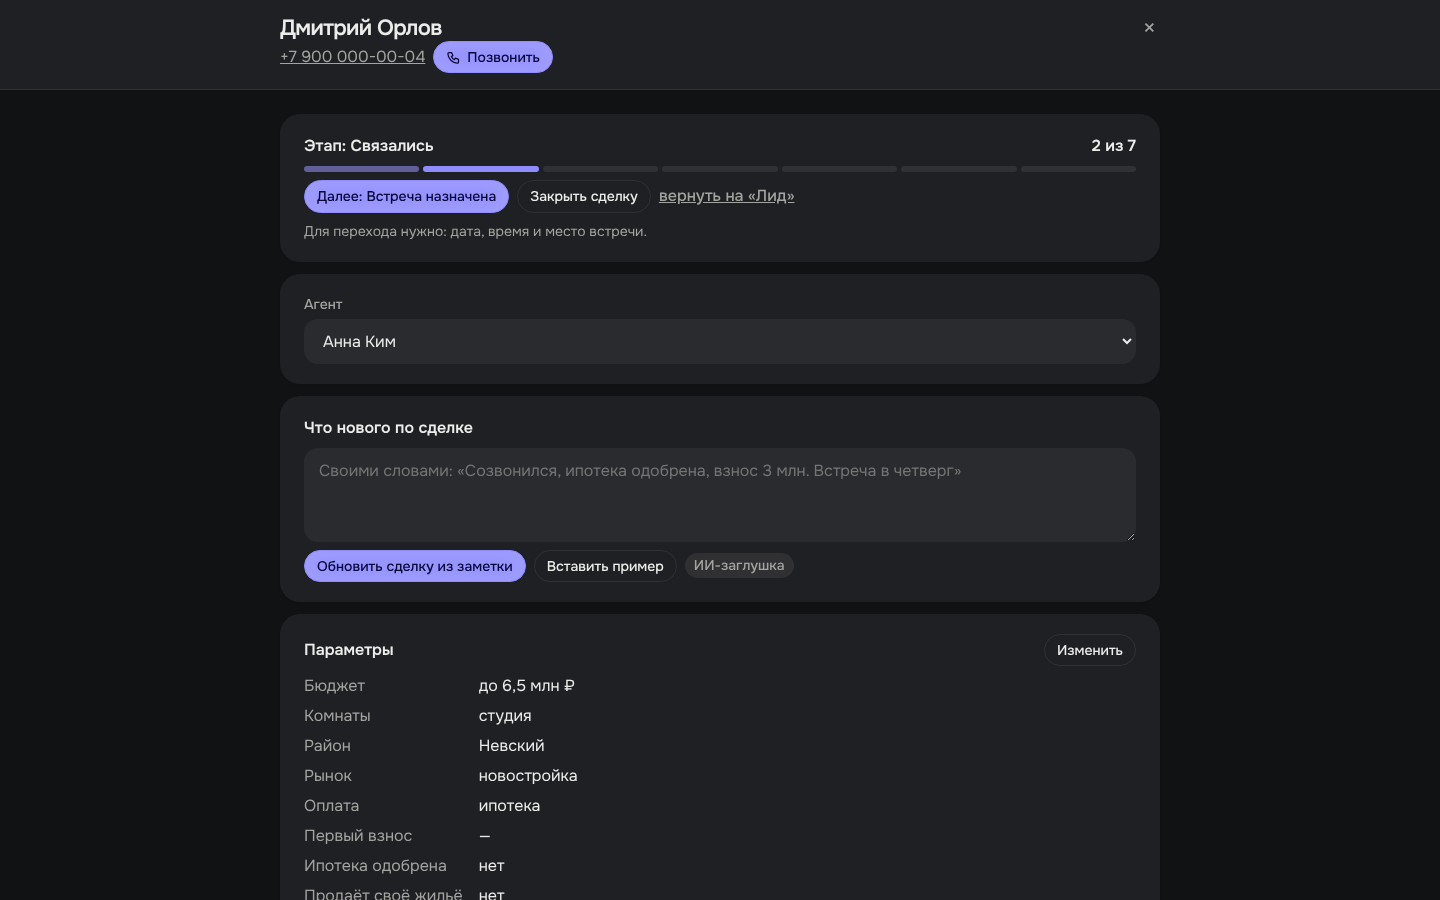
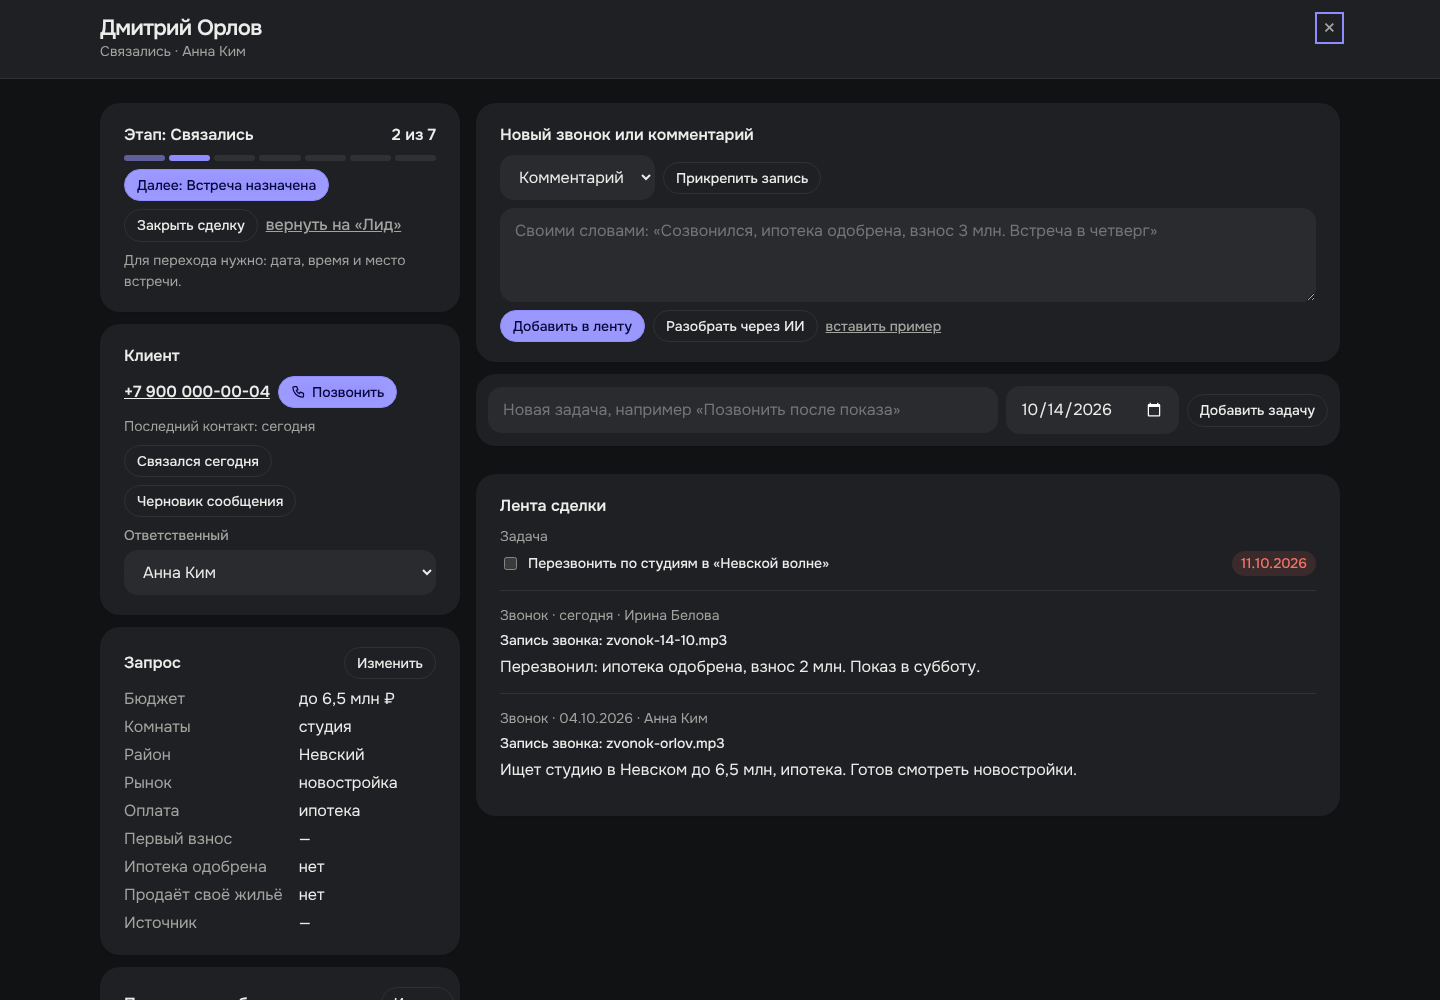
Сделка в две колонки: слева этап, клиент и запрос, справа лента звонков, комментариев и задач
Claude-Session: https://claude.ai/code/session_01Vzet5CnL4PoNdbncT2XCpf

diff --git a/app/index.html b/app/index.html
@@ -278,11 +278,27 @@ textarea { resize: vertical; }
 .pin.new span { background: var(--accent); color: var(--accent-ink); border-color: var(--accent); }
 .pin.off span { opacity: .55; }
 dialog.drawer.wide { width: min(660px, 100%); }
+/* Страница сделки: слева кто, где и что хочет клиент; справа лента звонков, комментариев и задач */
+.deal-grid { display: grid; grid-template-columns: minmax(0, 360px) minmax(0, 1fr); gap: 16px; align-items: start; }
+.deal-side, .deal-main { display: grid; grid-template-columns: minmax(0, 1fr); gap: 12px; min-width: 0; }
+.deal-side { position: sticky; top: 96px; }
+.deal-grid .block { box-sizing: border-box; background: var(--surface); border-radius: 20px; padding: 20px 24px; box-shadow: 0 1px 2px rgb(16 24 40 / .05); }
+.deal-grid dl { gap: 4px 16px; }
+.feed { display: grid; }
+.ev { display: grid; gap: 4px; padding: 14px 0; border-top: 1px solid var(--line); }
+.ev:first-child { border-top: 0; padding-top: 0; }
+.ev p { margin: 0; white-space: pre-line; }
+.ev-meta { font-size: var(--fs-sm); color: var(--muted); }
+.ev-file { font-size: var(--fs-sm); font-weight: 500; }
+.ev.task { grid-template-columns: minmax(0, 1fr) auto; align-items: center; }
+.ev.task .ev-meta { grid-column: 1 / -1; }
+.ev.done label { color: var(--muted); text-decoration: line-through; }
+#add-task { box-sizing: border-box; background: var(--surface); border-radius: 20px; padding: 12px; box-shadow: 0 1px 2px rgb(16 24 40 / .05); }
+@media (max-width: 900px) { .deal-grid { grid-template-columns: minmax(0, 1fr); } .deal-side { position: static; } }
 /* Сделка — отдельная страница на весь экран: фон страницы, разделы на плашках */
 dialog.drawer.page { width: 100%; border: 0; background: var(--bg); }
-.page .dlg { --pad: max(20px, calc((100vw - 880px) / 2)); padding: 20px var(--pad) 48px; gap: 12px; }
+.page .dlg { --pad: max(20px, calc((100vw - 1240px) / 2)); padding: 20px var(--pad) 48px; gap: 12px; }
 .page .dlg-head { margin: -20px calc(-1 * var(--pad)) 12px; padding: 16px var(--pad); }
-.page .dlg > :not(.dlg-head):not(.info) { background: var(--surface); border-radius: 20px; padding: 20px 24px; box-shadow: 0 1px 2px rgb(16 24 40 / .05); }
 .chess { display: grid; gap: 4px; overflow-x: auto; }
 .chess .fl { font-size: var(--fs-xs); color: var(--muted); display: grid; place-items: center; font-variant-numeric: tabular-nums; }
 .unit { font: 600 var(--fs-xs)/1.25 var(--f-body); padding: 5px 2px; border-radius: 6px; border: 2px solid transparent; cursor: pointer; text-align: center; font-variant-numeric: tabular-nums; color: var(--ink); }
@@ -1217,53 +1233,57 @@ function busy(btn, label, fn) {
 
 function renderDeal() {
   const d = deal(ui.dealId), c = can(), n = -days(d.lastContact), m = matches(d);
-  const keepNote = $('note')?.value ?? '';
-  const ts = S.tasks.filter(t => t.dealId === d.id && !t.done).sort((a, b) => a.due.localeCompare(b.due));
+  const keepNote = $('note')?.value ?? '', keepKind = $('note-kind')?.value || 'comment';
   const bs = S.bookings.filter(b => b.dealId === d.id), ks = S.commissions.filter(k => k.dealId === d.id);
   const p = ui.preview, any = p && (p.changes.length || p.task || p.stage);
+  // Лента: сверху открытые задачи по сроку (просроченные первыми), ниже звонки, комментарии и выполненные задачи, новое сверху
+  const feed = [
+    ...d.notes.map((x, i) => ({ date: x.date, i, html: `<div class="ev"><span class="ev-meta">${x.kind ? NOTE_KIND[x.kind] : 'Комментарий'} · ${dueLabel(x.date)} · ${esc(user(x.author)?.name)}</span>${x.file ? `<span class="ev-file">Запись звонка: ${esc(x.file)}</span>` : ''}<p>${esc(x.text)}</p></div>` })),
+    ...S.tasks.filter(t => t.dealId === d.id).map((t, i) => ({ date: t.due, open: !t.done, i: -1 - i, html: `<div class="ev task${t.done ? ' done' : ''}"><span class="ev-meta">${t.done ? 'Задача · выполнена' : 'Задача'}</span>
+      <label class="check"><input type="checkbox" ${t.done ? 'checked disabled' : `data-act="done" data-id="${t.id}"`}> ${esc(t.title)}</label>${t.done ? '' : pill(dueCls(t.due), dueLabel(t.due))}</div>` })),
+  ].sort((a, b) => !!b.open - !!a.open || (a.open ? a.date.localeCompare(b.date) : b.date.localeCompare(a.date) || b.i - a.i));
   $('drawer').innerHTML = `<div class="dlg">
-    <div class="dlg-head"><div><h2>${esc(d.name)}</h2><div class="actions">${d.phone ? `<a class="muted" href="${telHref(d.phone)}">${esc(d.phone)}</a>` : '<span class="muted">телефон не указан</span>'}${callBtn(d.phone)}</div></div><button class="x" data-act="close" aria-label="Закрыть">×</button></div>
+    <div class="dlg-head"><div><h2>${esc(d.name)}</h2><span class="muted small">${esc(stage(d.stageId)?.name)}${d.lost ? ' · отказ' : ''} · ${esc(user(d.agentId)?.name)}</span></div><button class="x" data-act="close" aria-label="Закрыть">×</button></div>
     ${ui.flash ? `<p class="info">${esc(ui.flash)}</p>` : ''}
-    ${stageBlock(d)}
-    <div class="fields">
-      <div class="field"><label for="deal-agent">Агент</label>${c.all ? `<select id="deal-agent">${S.users.map(u => `<option value="${u.id}"${u.id === d.agentId ? ' selected' : ''}>${esc(u.name)}</option>`).join('')}</select>` : `<span id="deal-agent" style="padding-block:8px">${esc(user(d.agentId)?.name)}</span>`}</div>
-    </div>
-
-    <div class="block"><h3>Что нового по сделке</h3>
-      <textarea id="note" rows="3" placeholder="Своими словами: «Созвонился, ипотека одобрена, взнос 3 млн. Встреча в четверг»">${esc(keepNote)}</textarea>
-      <div class="actions"><button class="btn primary sm" data-act="ai-note">Обновить сделку из заметки</button><button class="btn sm" data-act="ai-example">Вставить пример</button>${pill('muted', 'ИИ-заглушка')}</div>
-      ${p ? `<div class="ai"><strong>${any ? 'ИИ предлагает' : 'Новых данных не найдено'}</strong>
-        ${any ? `<ul>
-          ${p.changes.map(([label, from, to]) => `<li>${label}: <s>${esc(from)}</s> → <b>${esc(to)}</b></li>`).join('')}
-          ${p.stage ? `<li>Этап: <s>${esc(stage(d.stageId).name)}</s> → <b>${esc(p.stage.name)}</b></li>` : ''}
-          ${p.task ? `<li>Задача: <b>${esc(p.task.title)}</b>, ${dueLabel(p.task.due)}</li>` : ''}
-        </ul>` : '<span class="small muted">Заметка сохранится в историю сделки.</span>'}
-        <div class="actions"><button class="btn primary sm" data-act="ai-apply">${any ? 'Применить' : 'Сохранить заметку'}</button><button class="btn sm" data-act="ai-cancel">Отмена</button></div></div>` : ''}
-    </div>
-
-    <div class="block"><h3><span>Параметры</span>${ui.editing ? '' : '<button class="btn sm" data-act="edit">Изменить</button>'}</h3>
-      ${ui.editing ? `<form id="edit-deal" class="block">${dealFields(d)}<div class="actions"><button class="btn primary sm" type="submit">Сохранить</button><button class="btn sm" type="button" data-act="edit-cancel">Отмена</button></div></form>`
-        : `<dl>${FIELDS.map(([k, label, f]) => `<dt>${label}</dt><dd>${esc(f(d[k]))}</dd>`).join('')}</dl>`}
-    </div>
-
-    <div class="block"><h3>Задачи по сделке</h3>
-      ${ts.length ? `<div class="list">${ts.map(t => `<div class="trow"><input type="checkbox" id="dtask-${t.id}" data-act="done" data-id="${t.id}"><label for="dtask-${t.id}" class="title">${esc(t.title)}</label>${pill(dueCls(t.due), dueLabel(t.due))}</div>`).join('')}</div>` : '<span class="muted small">Открытых задач нет.</span>'}
-      <form id="add-task" class="actions"><input id="nt-title" required placeholder="Новая задача" aria-label="Новая задача" style="flex:1;min-width:160px"><input id="nt-due" type="date" required value="${iso(1)}" aria-label="Срок" style="width:auto"><button class="btn sm" type="submit">Добавить</button></form>
-    </div>
-
-    <div class="block"><h3>Контакт</h3>
-      <div class="actions"><span>${n === 0 ? 'Сегодня' : `${fmtDate(d.lastContact)}, ${dayWord(n)} назад`}</span>${n >= 5 && isOpen(d) ? pill('warn', 'пора написать') : ''}</div>
-      <div class="actions"><button class="btn sm" data-act="contact" data-id="${d.id}">Связался сегодня</button><button class="btn sm" data-act="draft" data-id="${d.id}">Черновик сообщения</button></div>
-      ${ui.draft ? `<textarea id="draft-box" rows="6" aria-label="Черновик сообщения">${esc(draftText(d))}</textarea><div class="actions"><button class="btn sm primary" data-act="copy">Копировать</button><span class="small muted" id="copy-status"></span></div>` : ''}
-    </div>
-
-    <div class="block"><h3><span>Подходящие объекты</span><button class="btn sm" data-act="deal-search" data-id="${d.id}">Подобрать в поиске</button></h3>
-      ${m.length ? m.map(x => `<div class="match"><button class="btn link" style="color:var(--ink);font-weight:600" data-act="place" data-id="${x.o.complexId || x.o.id}" data-unit="${x.o.id}">${esc(objTitle(x.o))}</button><span>${mln(x.o.price)} · ${x.o.type}</span><span class="row">${x.why.map(([cls, t]) => pill(cls, t)).join('')}</span></div>`).join('') : '<span class="muted">В базе нет объектов под этот запрос.</span>'}
-    </div>
-    ${bs.length ? `<div class="block"><h3>Брони</h3>${bs.map(b => { const [cls, t] = bookingState(b); return `<div class="actions">${pill(cls, t)}<span>${b.kind}, ${rub(b.amount)}, до ${fmtDate(b.expires)}</span></div>`; }).join('')}</div>` : ''}
-    ${ks.length ? `<div class="block"><h3>Комиссии</h3>${ks.map(k => `<div class="actions">${pill(commState(k.status), k.status)}<span>${rub(k.amount)} от ${k.payer === 'Застройщик' ? 'застройщика' : 'продавца'}</span></div>`).join('')}</div>` : ''}
-    <div class="block"><h3>История</h3>
-      ${d.notes.length ? d.notes.slice().reverse().map(x => `<div class="note"><span class="small muted">${fmtDate(x.date)} · ${x.kind ? NOTE_KIND[x.kind] + ' · ' : ''}${esc(user(x.author)?.name)}</span>${x.file ? `<span class="small">Запись: ${esc(x.file)}</span>` : ''}<p style="white-space:pre-line">${esc(x.text)}</p></div>`).join('') : '<span class="muted small">Заметок пока нет.</span>'}
+    <div class="deal-grid">
+    <aside class="deal-side">
+      ${stageBlock(d)}
+      <div class="block"><h3>Клиент</h3>
+        <div class="actions">${d.phone ? `<a href="${telHref(d.phone)}" style="color:var(--ink);font-weight:600">${esc(d.phone)}</a>` : '<span class="muted">телефон не указан</span>'}${callBtn(d.phone)}</div>
+        <span class="small ${n >= 5 && isOpen(d) ? 'since warn' : 'muted'}">Последний контакт: ${n === 0 ? 'сегодня' : `${dayWord(n)} назад`}</span>
+        <div class="actions"><button class="btn sm" data-act="contact" data-id="${d.id}">Связался сегодня</button><button class="btn sm" data-act="draft" data-id="${d.id}">Черновик сообщения</button></div>
+        ${ui.draft ? `<textarea id="draft-box" rows="6" aria-label="Черновик сообщения">${esc(draftText(d))}</textarea><div class="actions"><button class="btn sm primary" data-act="copy">Копировать</button><span class="small muted" id="copy-status"></span></div>` : ''}
+        <div class="field"><label for="deal-agent">Ответственный</label>${c.all ? `<select id="deal-agent">${S.users.map(u => `<option value="${u.id}"${u.id === d.agentId ? ' selected' : ''}>${esc(u.name)}</option>`).join('')}</select>` : `<span id="deal-agent">${esc(user(d.agentId)?.name)}</span>`}</div>
+      </div>
+      <div class="block"><h3><span>Запрос</span>${ui.editing ? '' : '<button class="btn sm" data-act="edit">Изменить</button>'}</h3>
+        ${ui.editing ? `<form id="edit-deal" class="block">${dealFields(d)}<div class="actions"><button class="btn primary sm" type="submit">Сохранить</button><button class="btn sm" type="button" data-act="edit-cancel">Отмена</button></div></form>`
+          : `<dl>${FIELDS.map(([k, label, f]) => `<dt>${label}</dt><dd>${esc(f(d[k]))}</dd>`).join('')}</dl>`}
+      </div>
+      ${bs.length ? `<div class="block"><h3>Брони</h3>${bs.map(b => { const [cls, t] = bookingState(b); return `<div class="actions">${pill(cls, t)}<span>${b.kind}, ${rub(b.amount)}, до ${fmtDate(b.expires)}</span></div>`; }).join('')}</div>` : ''}
+      ${ks.length ? `<div class="block"><h3>Комиссии</h3>${ks.map(k => `<div class="actions">${pill(commState(k.status), k.status)}<span>${rub(k.amount)} от ${k.payer === 'Застройщик' ? 'застройщика' : 'продавца'}</span></div>`).join('')}</div>` : ''}
+      <div class="block"><h3><span>Подходящие объекты</span><button class="btn sm" data-act="deal-search" data-id="${d.id}">Искать</button></h3>
+        ${m.length ? m.map(x => `<div class="match"><button class="btn link" style="color:var(--ink);font-weight:600" data-act="place" data-id="${x.o.complexId || x.o.id}" data-unit="${x.o.id}">${esc(objTitle(x.o))}</button><span>${mln(x.o.price)} · ${x.o.type}</span><span class="row">${x.why.map(([cls, t]) => pill(cls, t)).join('')}</span></div>`).join('') : '<span class="muted">В базе нет объектов под этот запрос.</span>'}
+      </div>
+    </aside>
+    <section class="deal-main">
+      <div class="block"><h3>Новый звонок или комментарий</h3>
+        <div class="actions"><select id="note-kind" aria-label="Тип записи" style="width:auto"><option value="comment">Комментарий</option><option value="call"${keepKind === 'call' ? ' selected' : ''}>Звонок</option></select>
+          <label class="btn sm" style="color:var(--ink)">Прикрепить запись<input id="note-file" type="file" accept="audio/*" hidden></label><span class="small muted" id="note-file-name"></span></div>
+        <textarea id="note" rows="3" placeholder="Своими словами: «Созвонился, ипотека одобрена, взнос 3 млн. Встреча в четверг»">${esc(keepNote)}</textarea>
+        <div class="actions"><button class="btn primary sm" data-act="note-add">Добавить в ленту</button><button class="btn sm" data-act="ai-note">Разобрать через ИИ</button><button class="btn sm link" data-act="ai-example">вставить пример</button></div>
+        ${p ? `<div class="ai"><strong>${any ? 'ИИ предлагает обновить сделку' : 'Новых данных не найдено'}</strong>
+          ${any ? `<ul>
+            ${p.changes.map(([label, from, to]) => `<li>${label}: <s>${esc(from)}</s> → <b>${esc(to)}</b></li>`).join('')}
+            ${p.stage ? `<li>Этап: <s>${esc(stage(d.stageId).name)}</s> → <b>${esc(p.stage.name)}</b></li>` : ''}
+            ${p.task ? `<li>Задача: <b>${esc(p.task.title)}</b>, ${dueLabel(p.task.due)}</li>` : ''}
+          </ul>` : '<span class="small muted">Запись просто добавится в ленту.</span>'}
+          <div class="actions"><button class="btn primary sm" data-act="ai-apply">${any ? 'Применить и добавить в ленту' : 'Добавить в ленту'}</button><button class="btn sm" data-act="ai-cancel">Отмена</button></div></div>` : ''}
+      </div>
+      <form id="add-task" class="actions"><input id="nt-title" required placeholder="Новая задача, например «Позвонить после показа»" aria-label="Новая задача" style="flex:1;min-width:160px"><input id="nt-due" type="date" required value="${iso(1)}" aria-label="Срок" style="width:auto"><button class="btn sm" type="submit">Добавить задачу</button></form>
+      <div class="block"><h3>Лента сделки</h3>
+        <div class="feed">${feed.map(x => x.html).join('') || '<span class="muted small">Здесь появятся звонки, комментарии и задачи.</span>'}</div>
+      </div>
+    </section>
     </div>
   </div>`;
 }
@@ -1735,10 +1755,20 @@ document.addEventListener('click', e => {
       return;
     }
     case 'ai-example': $('note').value = SAMPLE_NOTE; return;
+    case 'note-add': {
+      const text = $('note').value.trim(), file = $('note-file').files[0]?.name;
+      if (!text && !file) { $('note').focus(); return; }
+      const d = deal(ui.dealId), kind = $('note-kind').value === 'call' ? 'call' : undefined;
+      d.notes.push({ date: iso(0), author: S.me, kind, file, text });
+      if (kind) d.lastContact = iso(0);
+      $('note').value = '';
+      break;
+    }
     case 'ai-note': {
       const text = $('note').value.trim();
       if (!text) { $('note').focus(); return; }
-      busy(el, 'ИИ разбирает заметку…', () => { ui.preview = previewNote(text); renderDeal(); }); return;
+      const kind = $('note-kind').value === 'call' ? 'call' : undefined, file = $('note-file').files[0]?.name;
+      busy(el, 'ИИ разбирает заметку…', () => { ui.preview = { ...previewNote(text), kind, file }; renderDeal(); }); return;
     }
     case 'ai-cancel': ui.preview = null; renderDeal(); return;
     case 'ai-apply': {
@@ -1746,7 +1776,7 @@ document.addEventListener('click', e => {
       Object.assign(d, p.fields);
       if (p.stage) d.stageId = p.stage.id;
       if (p.task) S.tasks.push({ id: 't' + (++S.seq), dealId: d.id, title: p.task.title, due: p.task.due, done: false });
-      d.notes.push({ date: iso(0), author: S.me, text: p.text });
+      d.notes.push({ date: iso(0), author: S.me, kind: p.kind, file: p.file, text: p.text });
       d.lastContact = iso(0);
       ui.preview = null; $('note').value = '';
       break;
@@ -1820,6 +1850,7 @@ document.addEventListener('input', e => {
 
 document.addEventListener('change', async e => {
   const t = e.target;
+  if (t.id === 'note-file') { $('note-file-name').textContent = t.files[0]?.name || ''; if (t.files[0]) $('note-kind').value = 'call'; return; }
   if (t.id === 'f-deal') { if (t.value) { F = fromDeal(deal(t.value)); mapView = null; render(); } return; }
   if (t.id === 'l-photos') {
     const files = [...t.files].slice(0, 12 - ui.listing.photos.length);
